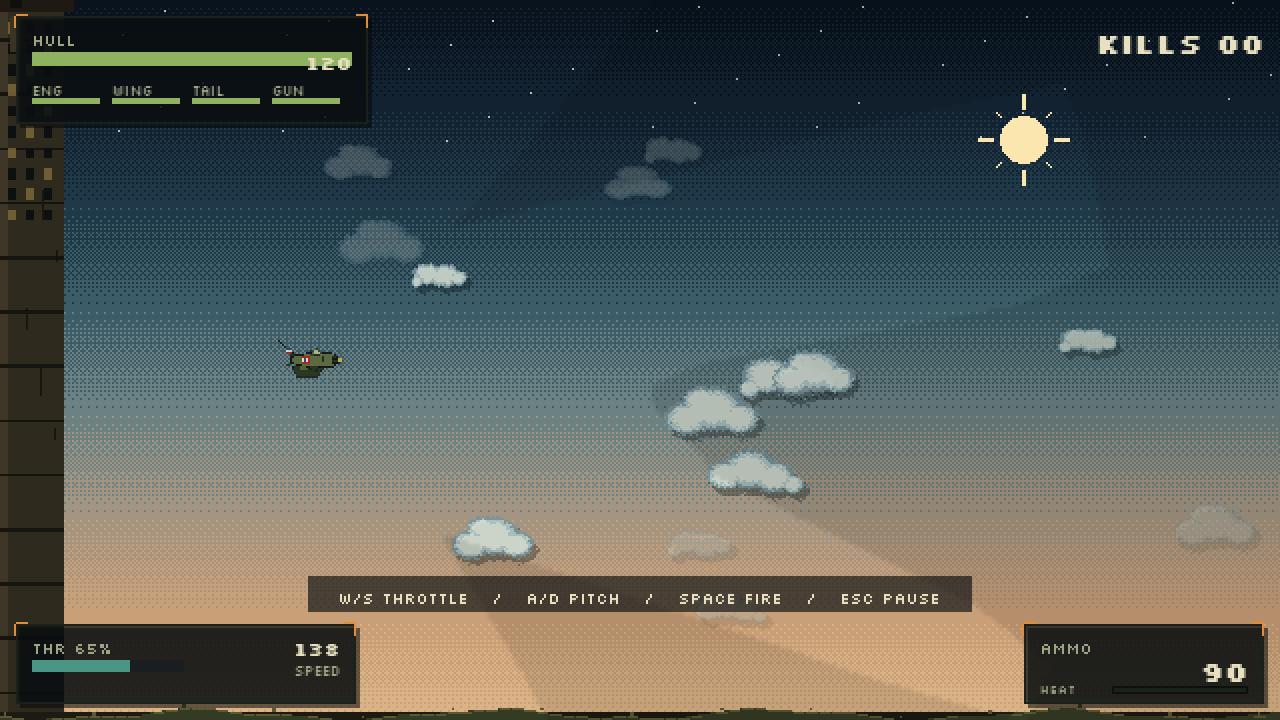
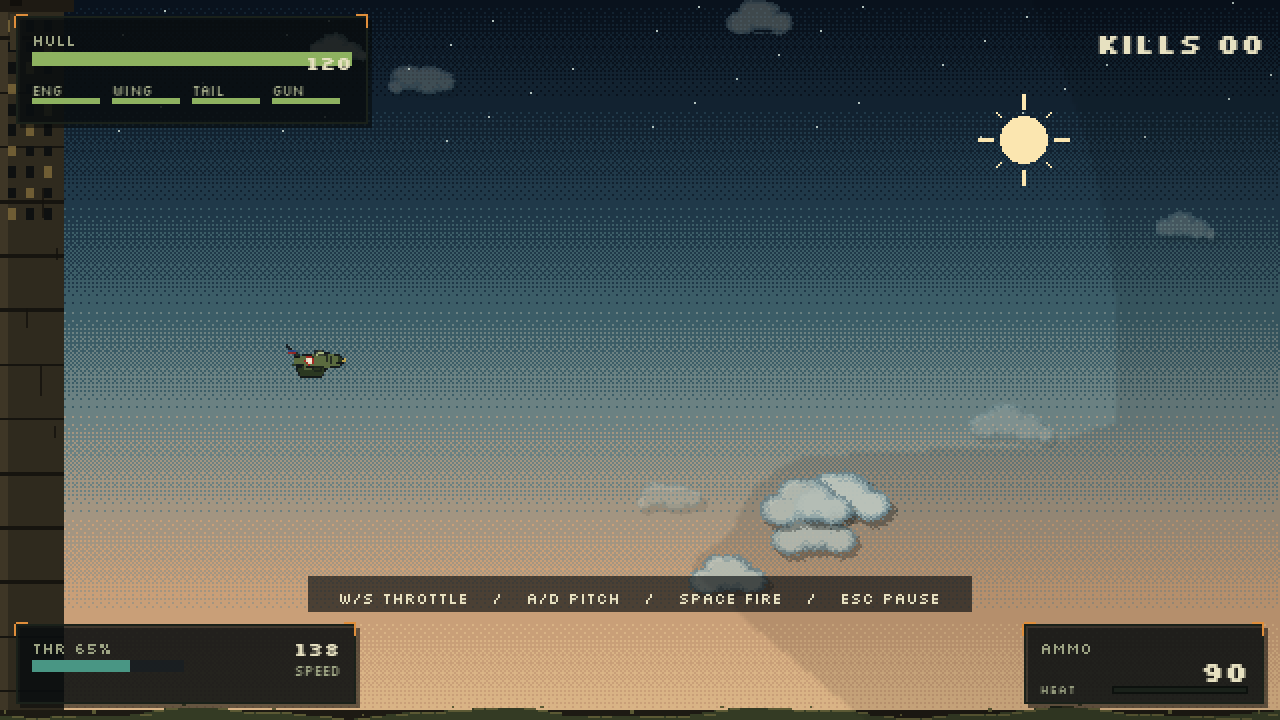
Use bounded cloud simulation for accurate visibility shadows

diff --git a/README.md b/README.md
@@ -182,7 +182,7 @@ run.bat --server --port=7777
 ### Tests
 
 ```bat
-test.bat        :: 42 unit tests (flight, hitboxes, clouds, rounds, protocol)
+test.bat        :: 43 unit tests (flight, hitboxes, clouds, rounds, protocol)
 smoke.bat       :: boot, solo flight, commands, console and screenshots
 ```
 

diff --git a/docs/DEBUGGING.md b/docs/DEBUGGING.md
@@ -253,7 +253,7 @@ uncaught error instead of hanging on the crash screen.
 test.bat
 ```
 
-42 tests cover:
+43 tests cover:
 
 - utility math/string wrapping;
 - class inheritance;
